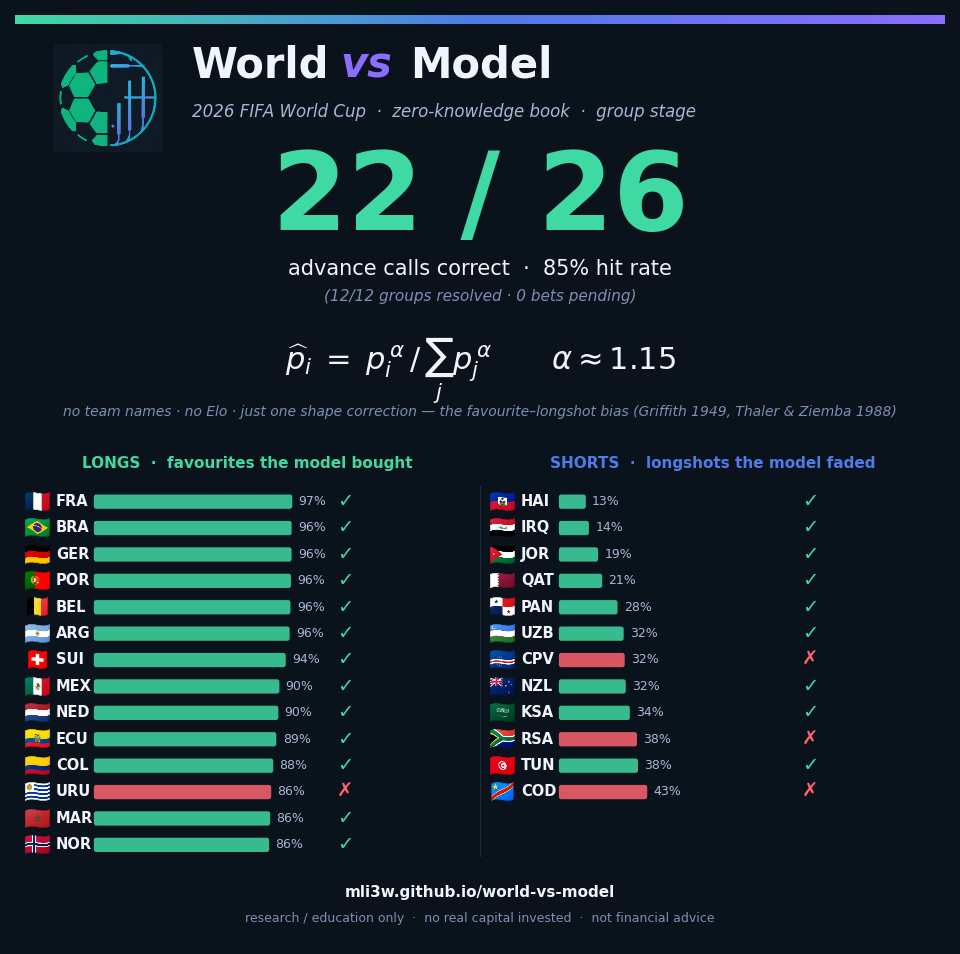
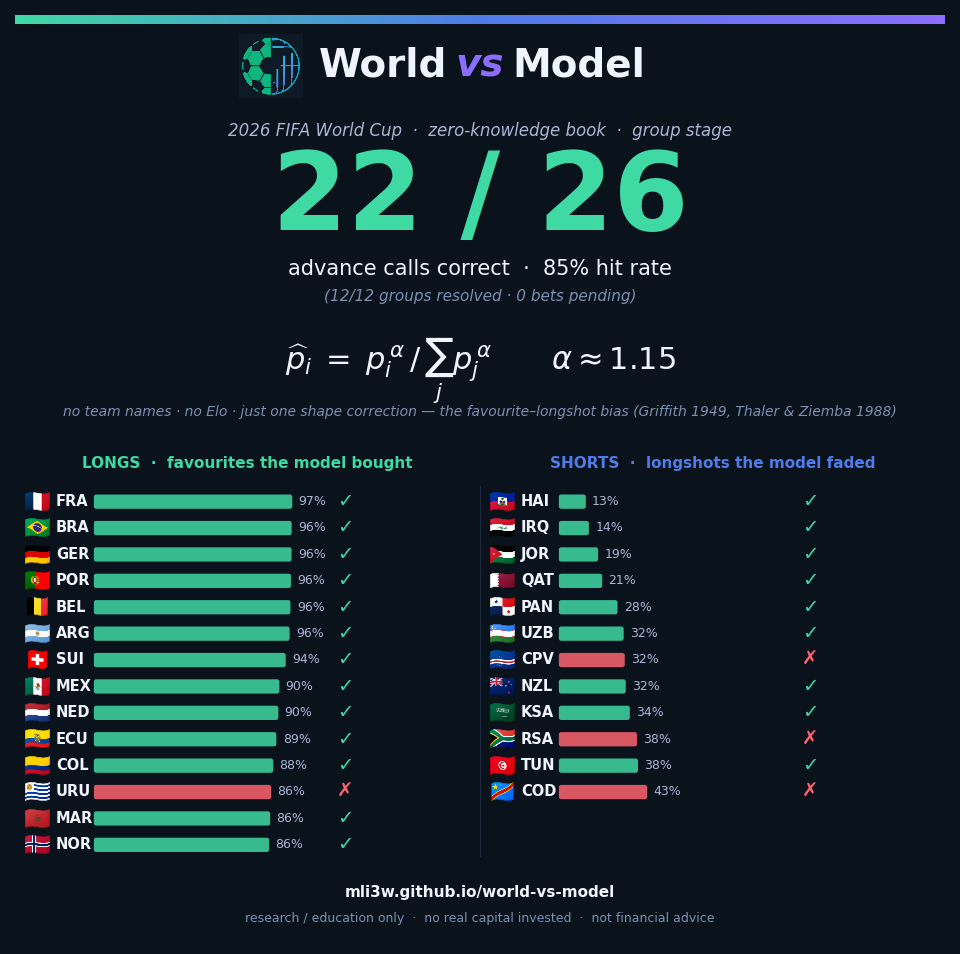
Filter phantom team placeholders from the Polymarket WC ladder
The board's books table was showing ghost rows — " teamag", " teamah",
... " teamao" — at 0% market price, 0% model probability, +0% edge. These
came from Polymarket's "winner" event, which still carries leftover
placeholder markets ("Team AG", "Team AH", etc.) from pre-qualifier
CONCACAF / OFC / playoff paths. They quoted at 0 but were getting
rendered as real teams.

Fix in fetch_event_prices: drop any normalised name not in the canonical
WL.FIELD (48 confirmed teams). Verified: 0 ghosts across all 5 ladder
levels (advance / reach_QF / reach_SF / reach_F / win).

Also rolling in the centred scorecard image header (emblem + wordmark
on the same horizontal centreline, "vs" anchored at x=50).

Changed region(s): [[0.0625, 0.0304, 0.75, 0.152]]

diff --git a/src/make_zk_scorecard.py b/src/make_zk_scorecard.py
@@ -237,18 +237,23 @@ def render(out_path=OUT):
             r = int(0x4f + (0x8b - 0x4f) * f); g = int(0x7c + (0x6d - 0x7c) * f); b = int(0xe8 + (0xff - 0xe8) * f)
         ax.add_patch(Rectangle((i, 99), 1, 1, facecolor=f"#{r:02x}{g:02x}{b:02x}", edgecolor="none"))
 
-    # ---- header: emblem + wordmark + subtitle
-    _draw_emblem(fig, ax, x=0.10, y=0.91, size=0.22)
-    # Three independent text calls for the wordmark so the "vs" can take the brand-violet accent.
-    # x positions hand-tuned at fontsize=30 — small gaps between tokens for readable spacing.
-    ax.text(19.0, 94.5, "World", ha="left", va="center", color=INK,
-            fontsize=30, weight="bold", family="sans-serif")
-    ax.text(35.0, 94.5, "vs", ha="left", va="center", color=VIOL,
-            fontsize=30, weight="bold", family="sans-serif", style="italic")
-    ax.text(42.5, 94.5, "Model", ha="left", va="center", color=INK,
-            fontsize=30, weight="bold", family="sans-serif")
-    ax.text(19, 89.5, "2026 FIFA World Cup  ·  zero-knowledge book  ·  group stage",
-            ha="left", va="center", color=INK2, fontsize=12, style="italic")
+    # ---- header: emblem + wordmark + subtitle, centred as one unit
+    # Layout: [emblem] [World] [vs] [Model] all on the same horizontal centreline. Emblem is the
+    # smaller, lighter mark; the wordmark carries the brand. Centre the whole assembly on x=50.
+    # "vs" anchors the centre of the image at x=50 (horizontal axis of symmetry through the
+    # whole layout). "World" and "Model" flank it via ha="right"/"left" anchored just outside
+    # the "vs" box. Emblem sits to the LEFT of "World" on the same horizontal centreline as
+    # the wordmark — same y=94.5 baseline, so it's visually IN the title row, not blocking
+    # the subtitle below.
+    _draw_emblem(fig, ax, x=0.275, y=0.945, size=0.13)
+    ax.text(46.5, 94.5, "World", ha="right", va="center", color=INK,
+            fontsize=28, weight="bold", family="sans-serif")
+    ax.text(50.0, 94.5, "vs", ha="center", va="center", color=VIOL,
+            fontsize=28, weight="bold", family="sans-serif", style="italic")
+    ax.text(53.5, 94.5, "Model", ha="left", va="center", color=INK,
+            fontsize=28, weight="bold", family="sans-serif")
+    ax.text(50, 87.5, "2026 FIFA World Cup  ·  zero-knowledge book  ·  group stage",
+            ha="center", va="center", color=INK2, fontsize=12, style="italic")
 
     # ---- hero hit-rate
     hit_rate = book["n_resolved"] and (

diff --git a/src/worldcup_markets.py b/src/worldcup_markets.py
@@ -153,6 +153,9 @@ def _session():
     return s
 
 
+_FIELD_NORMED = frozenset(WL._norm(t) for t in WL.FIELD)
+
+
 def fetch_event_prices(slug, session=None):
     """{normalized groupItemTitle -> current YES price} for one Gamma event (one call).
 
@@ -160,7 +163,12 @@ def fetch_event_prices(slug, session=None):
     resolved 0 — so a position on an eliminated team marks to 0 (a short then sits at MAX profit)
     instead of silently vanishing: an absent team reads as a blank "—" everywhere downstream
     (`worldcup_board._marked_rows`). Only a market with no quote at all (never traded, no
-    outcomePrices and no lastTradePrice) is dropped — that's missing data, not a real 0."""
+    outcomePrices and no lastTradePrice) is dropped — that's missing data, not a real 0.
+
+    Phantom-team filter: Polymarket's "winner" event still carries a handful of pre-qualifier
+    placeholder rows ("Team AG", "Team AH", etc.) left over from before CONCACAF / OFC / playoff
+    paths resolved. They quote at 0 and showed up as ghost rows on the board. We drop anything
+    not in the canonical 48-team FIELD."""
     s = session or _session()
     evs = s.get(f"{GAMMA}/events", params=dict(slug=slug), timeout=30).json()
     out = {}
@@ -168,6 +176,9 @@ def fetch_event_prices(slug, session=None):
         name = m.get("groupItemTitle") or (m.get("question") or "")
         if not name:
             continue
+        nz = WL._norm(name)
+        if nz not in _FIELD_NORMED:
+            continue                                    # phantom / placeholder row (not a real team)
         op = m.get("outcomePrices")
         try:                                            # a real quote (incl. a resolved 0 or 1)
             yes = float(json.loads(op)[0]) if isinstance(op, str) else float(op[0])
@@ -176,7 +187,7 @@ def fetch_event_prices(slug, session=None):
             if lt is None:
                 continue                                # never traded, no price at all -> not a 0 mark
             yes = float(lt)
-        out[WL._norm(name)] = yes
+        out[nz] = yes
     return out
 
 